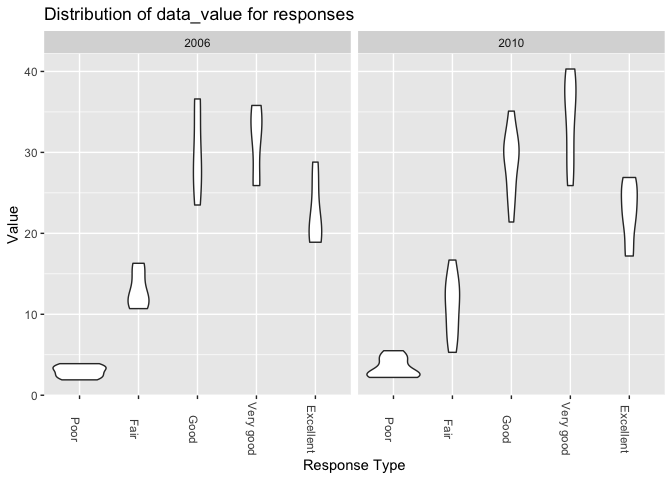
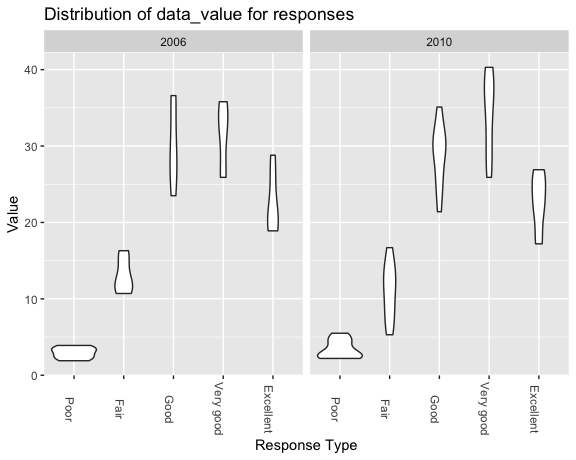
set picture format

diff --git a/p8105_hw3_kz2411.md b/p8105_hw3_kz2411.md
@@ -105,7 +105,7 @@ group_by_aisles %>%
   theme(axis.text.x = element_text(angle = 270, hjust = 0))
 ```
 
-![](p8105_hw3_kz2411_files/figure-gfm/create%20a%20plot-1.png)<!-- -->
+<img src="p8105_hw3_kz2411_files/figure-gfm/create a plot-1.png" width="80%" />
 
 The plot shows that the number of fresh vegetables and fresh fruits is
 far greater than other aisles, nearly at least two times number of other
@@ -337,7 +337,7 @@ ggplot(brfss_excellent, aes(x = year, y = mean_value, group = state)) +
   )
 ```
 
-![](p8105_hw3_kz2411_files/figure-gfm/plot-1.png)<!-- -->
+<img src="p8105_hw3_kz2411_files/figure-gfm/plot-1.png" width="80%" />
 
 ### c)
 
@@ -359,7 +359,7 @@ ggplot(ny_data,aes(x = response, y = data_value)) +
   facet_grid(.~year)
 ```
 
-![](p8105_hw3_kz2411_files/figure-gfm/NY-1.png)<!-- -->
+<img src="p8105_hw3_kz2411_files/figure-gfm/NY-1.png" width="80%" />
 
 ## Problem 3
 
@@ -493,7 +493,7 @@ ggplot(accelerometer_data,aes(x = minute / 60, y = activity,color = day)) +
   )
 ```
 
-![](p8105_hw3_kz2411_files/figure-gfm/draw%20a%20plot-1.png)<!-- -->
+<img src="p8105_hw3_kz2411_files/figure-gfm/draw a plot-1.png" width="80%" />
 
 The man may sleep from 22:00 to 6:00 for this is the time period when
 there are less activities. When it is on the weekend, the man does more
